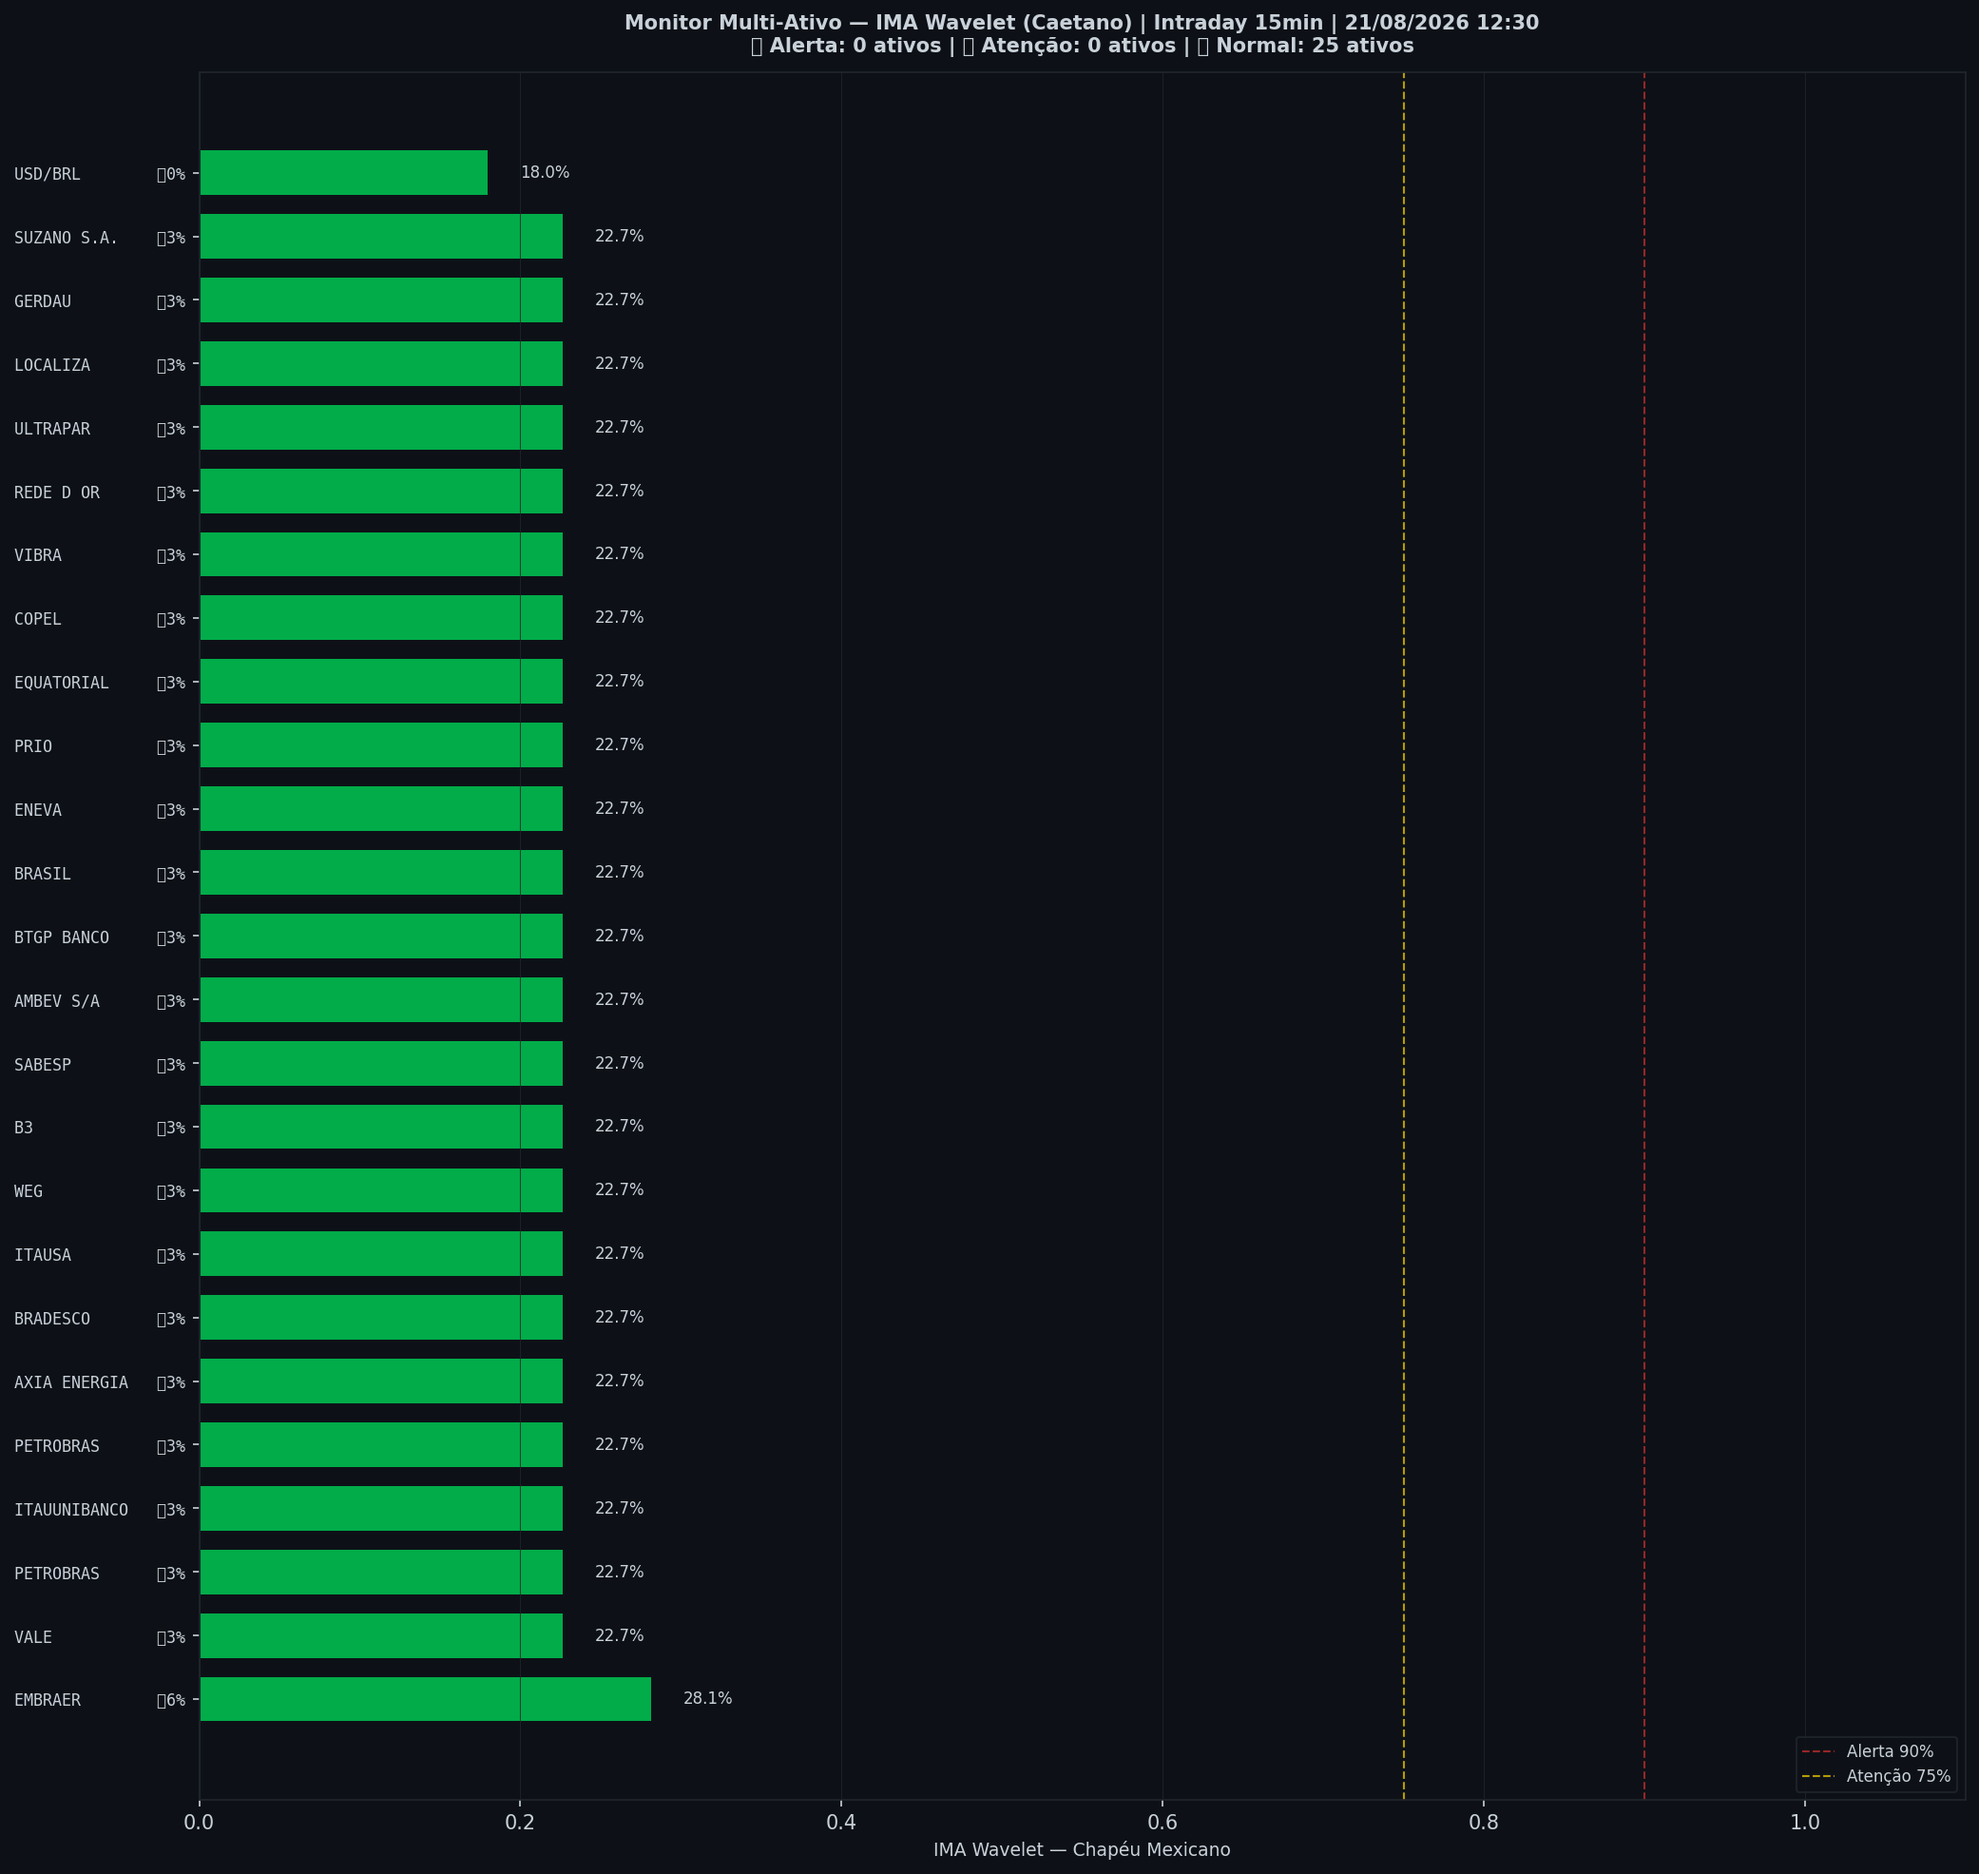
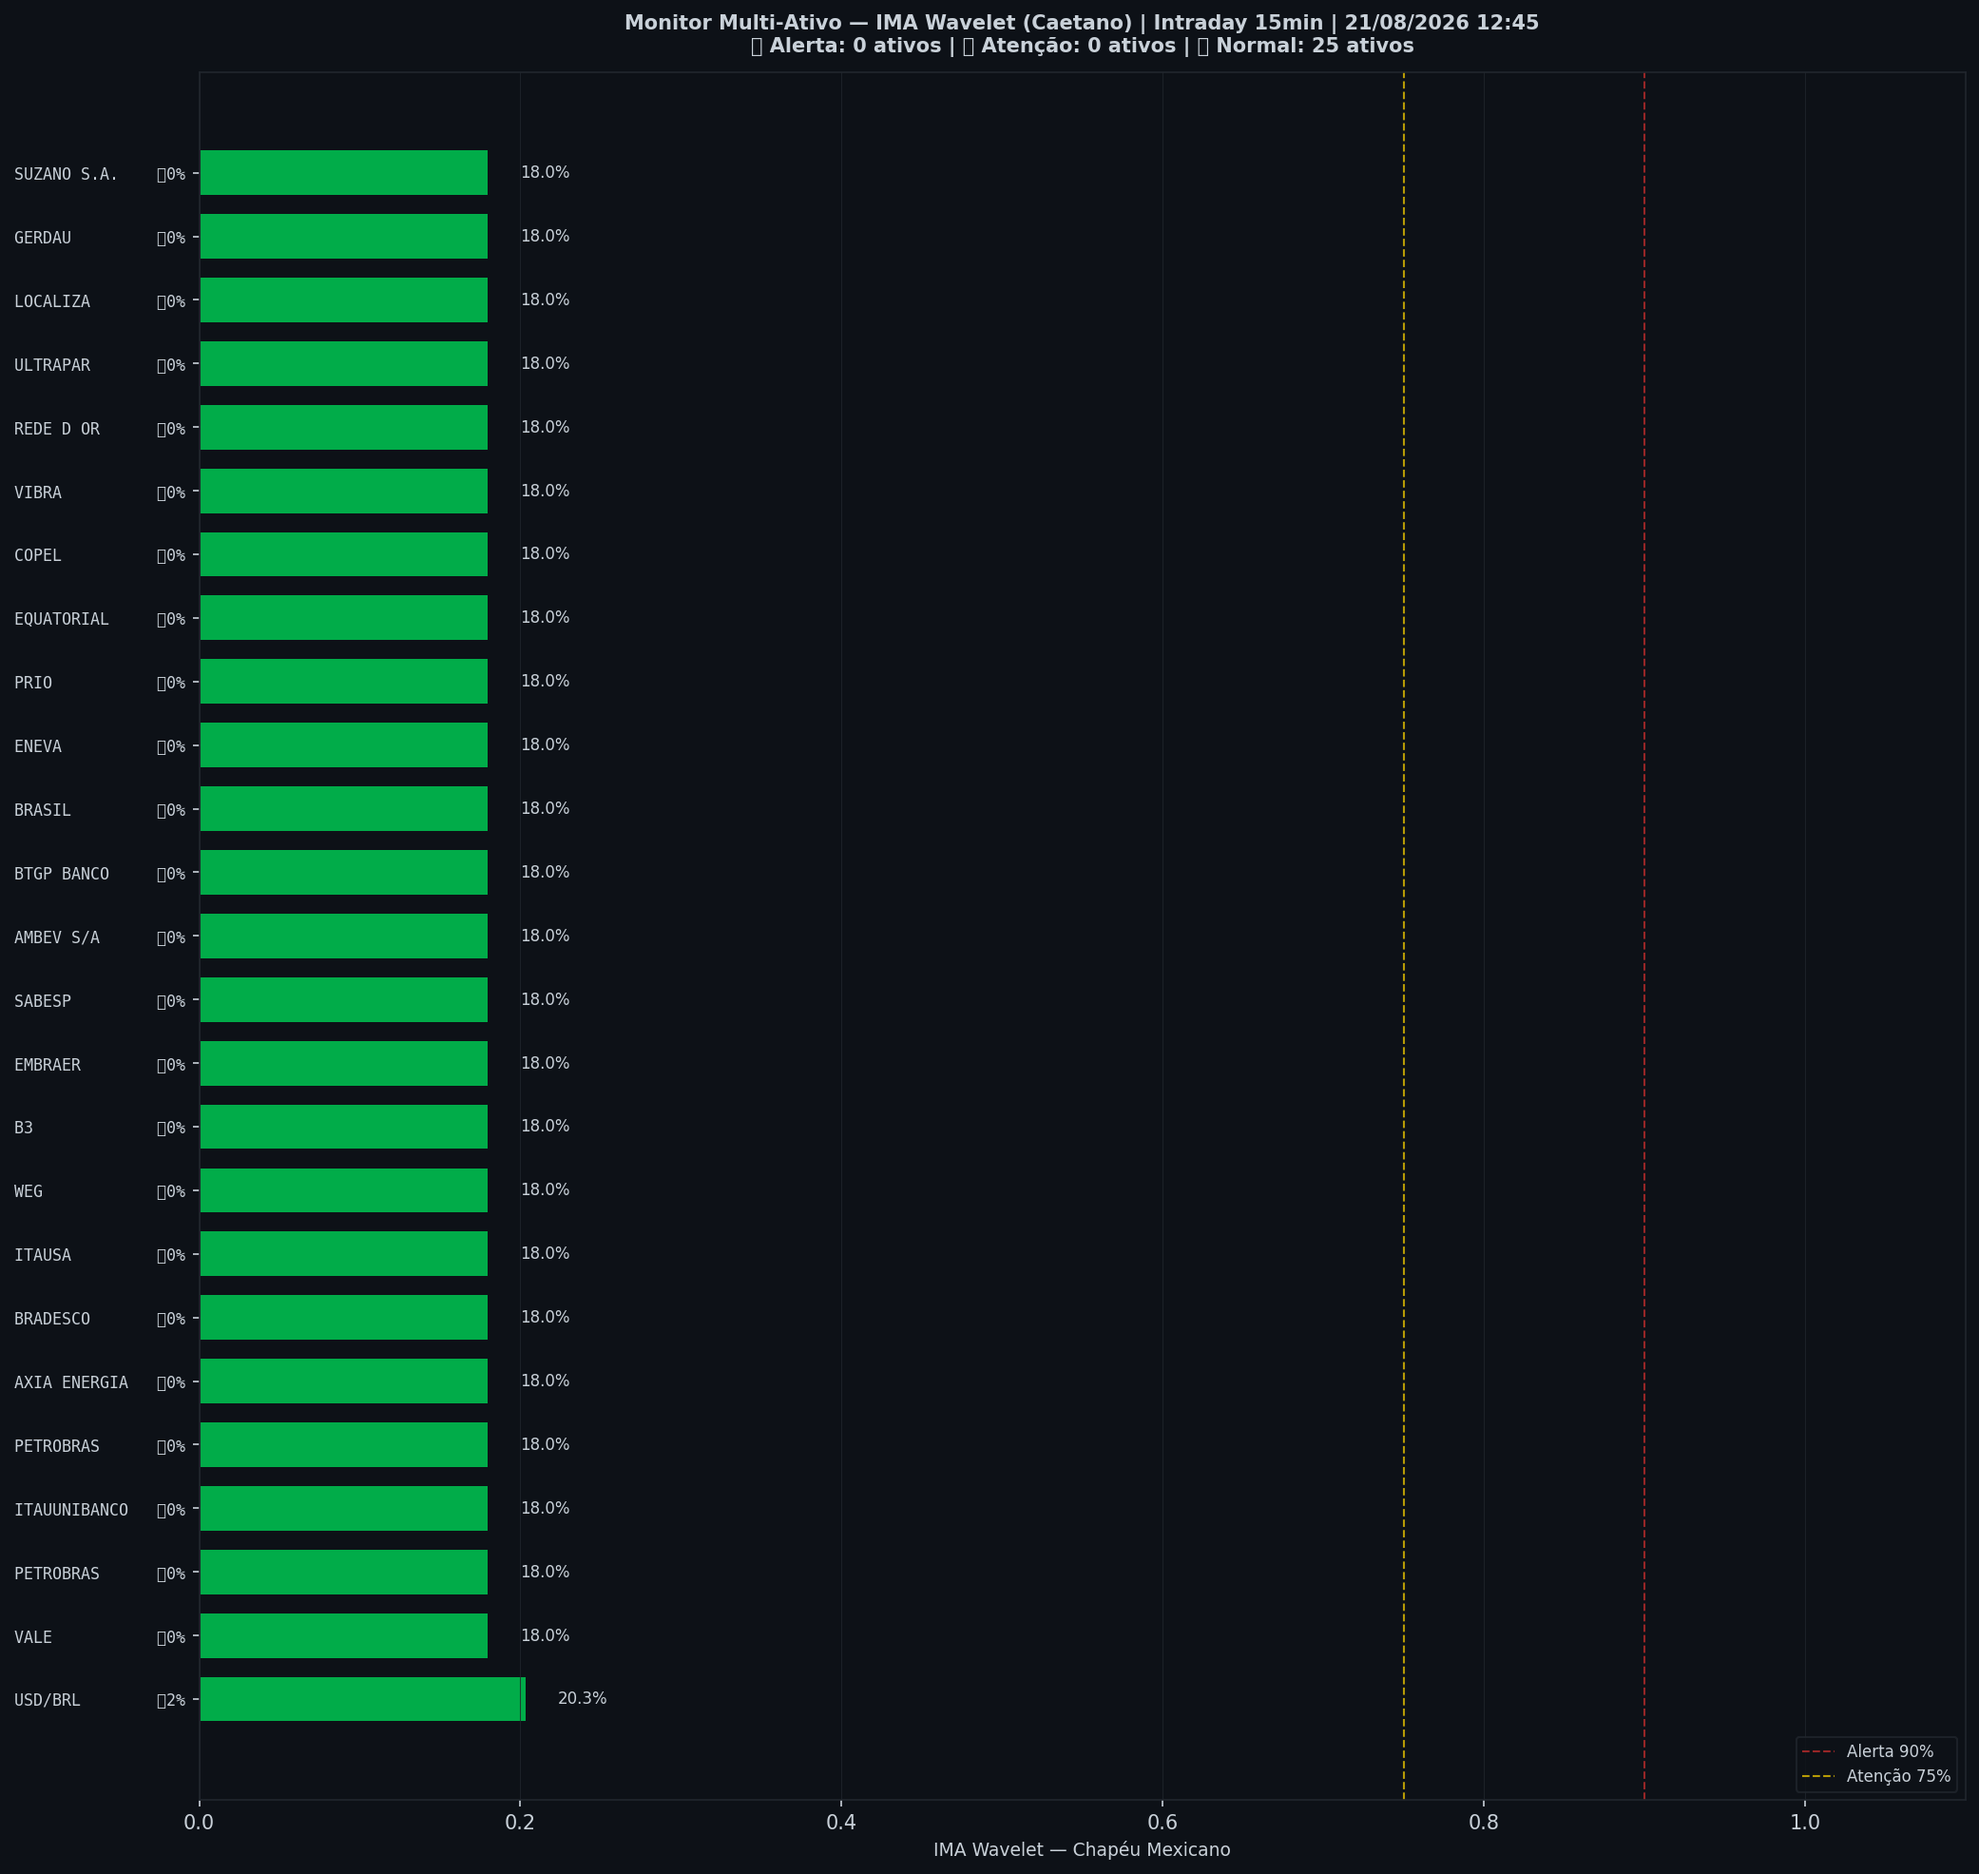
🤖 Auto: Sinal 21/08/2026 12:45

Changed region(s): [[0.2498, 0.0928, 0.3434, 0.9285], [0.0, 0.8975, 0.0312, 0.9285]]

diff --git a/content/intraday/2026-08-21.md b/content/intraday/2026-08-21.md
@@ -1,20 +1,20 @@
 ---
-title: "🟢 Intraday 21/08/2026 11:45 BRT — VERDE"
+title: "🟢 Intraday 21/08/2026 12:00 BRT — VERDE"
 date: 2026-08-21
 tags: [intraday]
 ---
 
-> [!success] 🟢 **VERDE** — Risco 38% · ▲ +3 p.p. vs leitura anterior
-> `████████░░░░░░░░░░░░`
+> [!success] 🟢 **VERDE** — Risco 45% · ▲ +6 p.p. vs leitura anterior
+> `█████████░░░░░░░░░░░`
 > Mercado sem sinais relevantes de estresse.
 
 
 | Indicador | Valor |
 |---|---|
-| 🔴 ζ Crash — severidade da queda em curso | **38%** |
+| 🔴 ζ Crash — severidade da queda em curso | **45%** |
 | 🔵 ζ Entrada — estrutura de fundo | 0% |
 | 🫧 LPPL DS-Confidence | 0% |
-| 📊 Ibovespa | 171.025 pts |
+| 📊 Ibovespa | 170.928 pts |
 
 ![Gráfico do sinal](../graficos/sinal_intraday.png)
 
@@ -22,6 +22,7 @@ tags: [intraday]
 
 | Data | Zona | Risco | IMA Crash | Entrada | LPPL |
 |---|---|---|---|---|---|
+| 2026-08-21 12:00 | 🟢 VERDE | **45%** | 45% | 0% | 0% |
 | 2026-08-21 11:45 | 🟢 VERDE | **38%** | 38% | 0% | 0% |
 | 2026-08-21 11:30 | 🟢 VERDE | **35%** | 35% | 0% | 0% |
 | 2026-08-21 11:15 | 🟢 VERDE | **30%** | 30% | 0% | 0% |
@@ -51,7 +52,6 @@ tags: [intraday]
 | 2026-08-20 12:15 | 🟢 VERDE | **20%** | 20% | 0% | 0% |
 | 2026-08-20 12:00 | 🟢 VERDE | **16%** | 16% | 1% | 0% |
 | 2026-08-20 11:45 | 🟢 VERDE | **12%** | 12% | 2% | 0% |
-| 2026-08-20 11:30 | 🟢 VERDE | **8%** | 8% | 1% | 0% |
 
 ## Monitor Multi-Ativo
 
@@ -59,35 +59,35 @@ tags: [intraday]
 
 | Zona | Ativo | Setor | IMA Crash | IMA Entrada |
 |---|---|---|---|---|
-| 🟢 | **EMBRAER** | Outros | 28.1% | 6.2% |
-| 🟢 | **VALE** | Mineração | 22.7% | 3.1% |
-| 🟢 | **PETROBRAS** | Petróleo | 22.7% | 3.1% |
-| 🟢 | **ITAUUNIBANCO** | Financeiro | 22.7% | 3.1% |
-| 🟢 | **PETROBRAS** | Petróleo | 22.7% | 3.1% |
-| 🟢 | **AXIA ENERGIA** | Energia | 22.7% | 3.1% |
-| 🟢 | **BRADESCO** | Financeiro | 22.7% | 3.1% |
-| 🟢 | **ITAUSA** | Financeiro | 22.7% | 3.1% |
-| 🟢 | **WEG** | Industrial | 22.7% | 3.1% |
-| 🟢 | **B3** | Financeiro | 22.7% | 3.1% |
-| 🟢 | **SABESP** | Saneamento | 22.7% | 3.1% |
-| 🟢 | **AMBEV S/A** | Consumo | 22.7% | 3.1% |
-| 🟢 | **BTGP BANCO** | Financeiro | 22.7% | 3.1% |
-| 🟢 | **BRASIL** | Financeiro | 22.7% | 3.1% |
-| 🟢 | **ENEVA** | Energia | 22.7% | 3.1% |
-| 🟢 | **PRIO** | Petróleo | 22.7% | 3.1% |
-| 🟢 | **EQUATORIAL** | Energia | 22.7% | 3.1% |
-| 🟢 | **COPEL** | Energia | 22.7% | 3.1% |
-| 🟢 | **VIBRA** | Energia | 22.7% | 3.1% |
-| 🟢 | **REDE D OR** | Saúde | 22.7% | 3.1% |
-| 🟢 | **ULTRAPAR** | Outros | 22.7% | 3.1% |
-| 🟢 | **LOCALIZA** | Aluguel | 22.7% | 3.1% |
-| 🟢 | **GERDAU** | Siderurgia | 22.7% | 3.1% |
-| 🟢 | **SUZANO S.A.** | Papel/Celulose | 22.7% | 3.1% |
-| 🟢 | **USD/BRL** | Câmbio | 18.0% | 0.0% |
+| 🟢 | **USD/BRL** | Câmbio | 20.3% | 2.3% |
+| 🟢 | **VALE** | Mineração | 18.0% | 0.0% |
+| 🟢 | **PETROBRAS** | Petróleo | 18.0% | 0.0% |
+| 🟢 | **ITAUUNIBANCO** | Financeiro | 18.0% | 0.0% |
+| 🟢 | **PETROBRAS** | Petróleo | 18.0% | 0.0% |
+| 🟢 | **AXIA ENERGIA** | Energia | 18.0% | 0.0% |
+| 🟢 | **BRADESCO** | Financeiro | 18.0% | 0.0% |
+| 🟢 | **ITAUSA** | Financeiro | 18.0% | 0.0% |
+| 🟢 | **WEG** | Industrial | 18.0% | 0.0% |
+| 🟢 | **B3** | Financeiro | 18.0% | 0.0% |
+| 🟢 | **EMBRAER** | Outros | 18.0% | 0.0% |
+| 🟢 | **SABESP** | Saneamento | 18.0% | 0.0% |
+| 🟢 | **AMBEV S/A** | Consumo | 18.0% | 0.0% |
+| 🟢 | **BTGP BANCO** | Financeiro | 18.0% | 0.0% |
+| 🟢 | **BRASIL** | Financeiro | 18.0% | 0.0% |
+| 🟢 | **ENEVA** | Energia | 18.0% | 0.0% |
+| 🟢 | **PRIO** | Petróleo | 18.0% | 0.0% |
+| 🟢 | **EQUATORIAL** | Energia | 18.0% | 0.0% |
+| 🟢 | **COPEL** | Energia | 18.0% | 0.0% |
+| 🟢 | **VIBRA** | Energia | 18.0% | 0.0% |
+| 🟢 | **REDE D OR** | Saúde | 18.0% | 0.0% |
+| 🟢 | **ULTRAPAR** | Outros | 18.0% | 0.0% |
+| 🟢 | **LOCALIZA** | Aluguel | 18.0% | 0.0% |
+| 🟢 | **GERDAU** | Siderurgia | 18.0% | 0.0% |
+| 🟢 | **SUZANO S.A.** | Papel/Celulose | 18.0% | 0.0% |
 
 ![Monitor multi-ativo](../graficos/multi_intraday.png)
 
-*Página atualizada em 21/08/2026 12:30 BRT (leitura da barra de 2026-08-21 11:45 BRT).*
+*Página atualizada em 21/08/2026 12:45 BRT (leitura da barra de 2026-08-21 12:00 BRT).*
 
 > [!info]- Como interpretar (clique para expandir)
 > - **ζ Crash**: fração dos coeficientes wavelet acima do corte (Caetano & Yoneyama 2009). Escala absoluta: ζ=0,90 = 90% dos coeficientes anômalos — historicamente, quedas com ζ≥0,90 foram mais fundas e mais longas. **Mede a severidade do movimento em curso, não prevê o início da queda.**

diff --git a/content/index.md b/content/index.md
@@ -8,19 +8,19 @@ tags: [home]
 
 Monitoramento diário e intraday do Ibovespa — **IMA Wavelet** (Prof. Marco Antonio Leonel Caetano, ITA/INSPER) + **LPPL DS-Confidence** (Prof. Didier Sornette, ETH-Zurich).
 
-*Última atualização: 21/08/2026 12:30 BRT · ^BVSP · Intraday 15min · v4*
+*Última atualização: 21/08/2026 12:45 BRT · ^BVSP · Intraday 15min · v4*
 
-> [!success] 🟢 **VERDE** — Risco 38% · ▲ +3 p.p. vs leitura anterior
-> `████████░░░░░░░░░░░░`
+> [!success] 🟢 **VERDE** — Risco 45% · ▲ +6 p.p. vs leitura anterior
+> `█████████░░░░░░░░░░░`
 > Mercado sem sinais relevantes de estresse.
 
 
 | Indicador | Valor |
 |---|---|
-| 🔴 ζ Crash — severidade da queda em curso | **38%** |
+| 🔴 ζ Crash — severidade da queda em curso | **45%** |
 | 🔵 ζ Entrada — estrutura de fundo | 0% |
 | 🫧 LPPL DS-Confidence | 0% |
-| 📊 Ibovespa | 171.025 pts |
+| 📊 Ibovespa | 170.928 pts |
 
 **Multi-ativo:** 0% em tensão (0🔴 0🟡 de 25 ativos)
 
@@ -32,7 +32,7 @@ Monitoramento diário e intraday do Ibovespa — **IMA Wavelet** (Prof. Marco An
 
 | Data | Zona | Risco | IMA | LPPL |
 |---|---|---|---|---|
-| [21 Aug 2026](diario/2026-08-21) | 🟢 VERDE | **38%** | 38% | 0% |
+| [21 Aug 2026](diario/2026-08-21) | 🟢 VERDE | **45%** | 45% | 0% |
 | [20 Aug 2026](diario/2026-08-20) | 🟢 VERDE | **0%** | 0% | 0% |
 
 ## Navegação

diff --git a/content/historico.md b/content/historico.md
@@ -7,6 +7,7 @@ tags: [historico]
 
 | Data | Modo | Zona | Risco | IMA | LPPL |
 |---|---|---|---|---|---|
+| 2026-08-21 12:00 | intraday | 🟢 VERDE | 45% | 45% | 0% |
 | 2026-08-21 11:45 | intraday | 🟢 VERDE | 38% | 38% | 0% |
 | 2026-08-21 11:30 | intraday | 🟢 VERDE | 35% | 35% | 0% |
 | 2026-08-21 11:15 | intraday | 🟢 VERDE | 30% | 30% | 0% |
